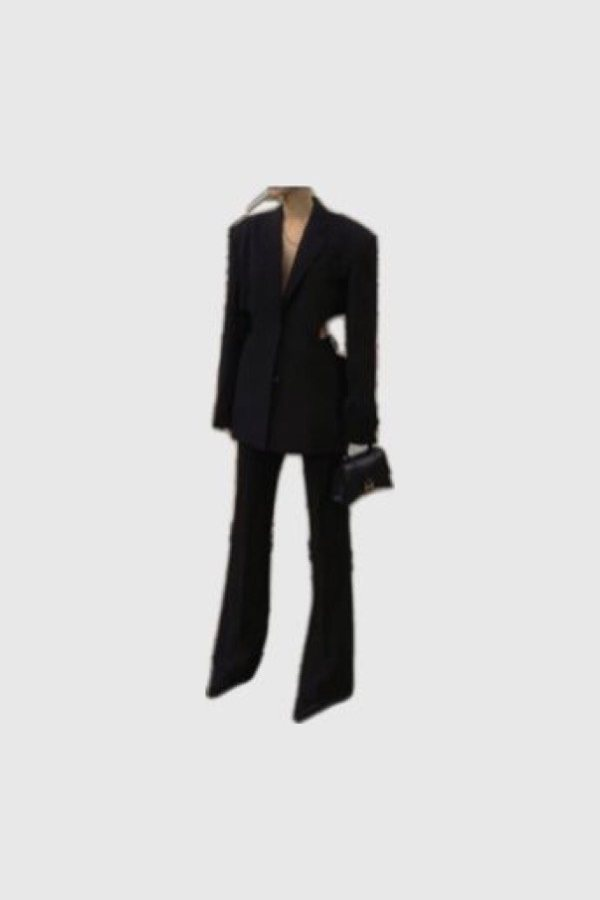
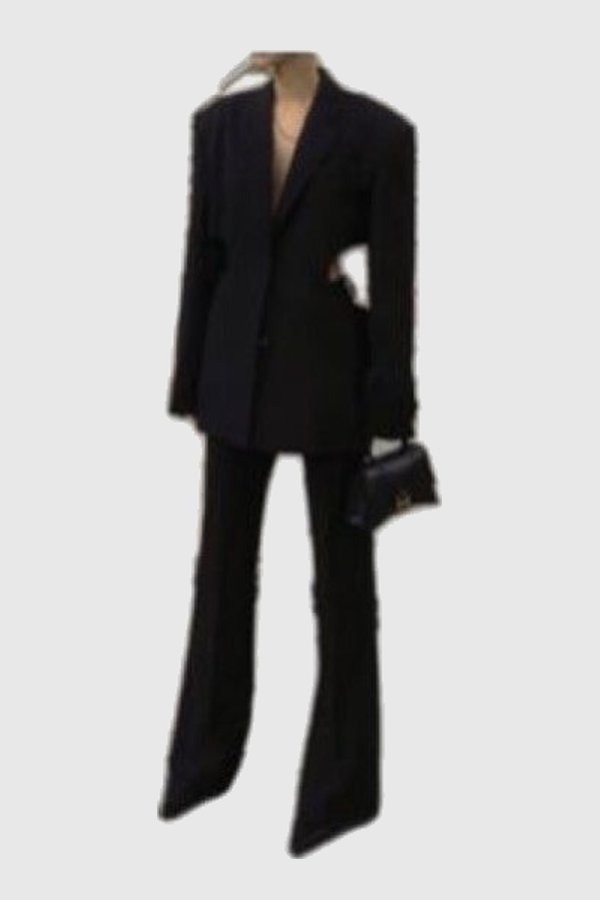
Dress code: one lined-up board, each figure tappable
Every look is now full-length head to toe, cut to a common scale and standing
on a shared baseline, butted together with no gap on one continuous backdrop.
It reads as a single lined-up photograph, but each figure is still its own
tile, so tapping a person opens that person.

Built as a zero-gap flex row rather than an image map with coordinates —
coordinates break the moment the image is scaled, and this reflows instead
(5 across, 4 under 700px, 3 under 480px). Partial rows centre, so the 11th
woman sits centred rather than stranded at the left.

Hover no longer lifts or scales a tile — either tears the seam between
neighbouring figures. The tapped figure brightens instead.

Exact matches, per instruction: her-3 (LNB Studio "Spinella"), her-4
(16Arlington "Minelli"), him-1 (Zara) and him-2 (Suitsupply) are the same
garments' own full-length product photography. The rest are McKenna's own
images, re-scaled but not substituted.

One exception worth knowing: the exact tuxedo in her board exists only as a
1080x1920 street photo cropped at the forehead, on concrete. No larger or
fuller copy exists, and it can't be cut out — segmentation takes the doorway
shadow with it. It's been replaced with a clean full-length black tuxedo so
the line-up holds together. Easy to swap back.

Cards carry ?v=3; filenames are unchanged so cache would otherwise serve the
old crops.

Cache: style.css v31.

Changed region(s): [[0.24, 0.0311, 0.75, 0.9644]]

diff --git a/details/index.html b/details/index.html
@@ -45,7 +45,7 @@
 <link rel="preconnect" href="https://fonts.gstatic.com" crossorigin />
 <link href="https://fonts.googleapis.com/css2?family=Cormorant+Garamond:ital,wght@0,300;0,400;0,500;0,600;1,300;1,400;1,500&family=Jost:wght@300;400;500&display=swap" rel="stylesheet" />
 
-<link rel="stylesheet" href="/assets/style.css?v=29" />
+<link rel="stylesheet" href="/assets/style.css?v=31" />
 
 <!-- No-JS fallback: reveal all content if scripts don't run. -->
 <noscript><style>
@@ -264,30 +264,30 @@
       <div class="lookbook__group">
         <h3 class="lookbook__label">For her</h3>
         <div class="lookbook__grid">
-        <figure class="tile look" tabindex="0" role="button" aria-label="Enlarge: A floor-length column gown"><img class="duo" src="/assets/look-her-1.jpg?v=2" width="600" height="900" alt="A floor-length column gown" loading="lazy" decoding="async" /></figure>
-        <figure class="tile look" tabindex="0" role="button" aria-label="Enlarge: A peplum mini with sheer tights"><img class="duo" src="/assets/look-her-2.jpg?v=2" width="600" height="900" alt="A peplum mini with sheer tights" loading="lazy" decoding="async" /></figure>
-        <figure class="tile look" tabindex="0" role="button" aria-label="Enlarge: An oversized blazer over a sheer maxi"><img class="duo" src="/assets/look-her-3.jpg?v=2" width="600" height="900" alt="An oversized blazer over a sheer maxi" loading="lazy" decoding="async" /></figure>
-        <figure class="tile look" tabindex="0" role="button" aria-label="Enlarge: A strapless midi with a feather hem"><img class="duo" src="/assets/look-her-4.jpg?v=2" width="600" height="900" alt="A strapless midi with a feather hem" loading="lazy" decoding="async" /></figure>
-        <figure class="tile look" tabindex="0" role="button" aria-label="Enlarge: A tuxedo suit — jacket and trousers"><img class="duo" src="/assets/look-her-5.jpg?v=2" width="600" height="900" alt="A tuxedo suit — jacket and trousers" loading="lazy" decoding="async" /></figure>
-        <figure class="tile look" tabindex="0" role="button" aria-label="Enlarge: A strapless gown with an oversized bow"><img class="duo" src="/assets/look-her-6.jpg?v=2" width="600" height="900" alt="A strapless gown with an oversized bow" loading="lazy" decoding="async" /></figure>
-        <figure class="tile look" tabindex="0" role="button" aria-label="Enlarge: A blazer dress with tall boots"><img class="duo" src="/assets/look-her-7.jpg?v=2" width="600" height="900" alt="A blazer dress with tall boots" loading="lazy" decoding="async" /></figure>
-        <figure class="tile look" tabindex="0" role="button" aria-label="Enlarge: An off-shoulder draped gown"><img class="duo" src="/assets/look-her-8.jpg?v=2" width="600" height="900" alt="An off-shoulder draped gown" loading="lazy" decoding="async" /></figure>
-        <figure class="tile look" tabindex="0" role="button" aria-label="Enlarge: A sharp blazer over sheer layers"><img class="duo" src="/assets/look-her-9.jpg?v=2" width="600" height="900" alt="A sharp blazer over sheer layers" loading="lazy" decoding="async" /></figure>
-        <figure class="tile look" tabindex="0" role="button" aria-label="Enlarge: A plunging gown with a thigh slit"><img class="duo" src="/assets/look-her-10.jpg?v=2" width="600" height="900" alt="A plunging gown with a thigh slit" loading="lazy" decoding="async" /></figure>
-        <figure class="tile look" tabindex="0" role="button" aria-label="Enlarge: An off-shoulder ruched mini"><img class="duo" src="/assets/look-her-11.jpg?v=2" width="600" height="900" alt="An off-shoulder ruched mini" loading="lazy" decoding="async" /></figure>
+        <figure class="tile look" tabindex="0" role="button" aria-label="Enlarge: A floor-length column gown"><img class="duo" src="/assets/look-her-1.jpg?v=3" width="600" height="900" alt="A floor-length column gown" loading="lazy" decoding="async" /></figure>
+        <figure class="tile look" tabindex="0" role="button" aria-label="Enlarge: A peplum mini with sheer tights"><img class="duo" src="/assets/look-her-2.jpg?v=3" width="600" height="900" alt="A peplum mini with sheer tights" loading="lazy" decoding="async" /></figure>
+        <figure class="tile look" tabindex="0" role="button" aria-label="Enlarge: An oversized blazer over a sheer maxi"><img class="duo" src="/assets/look-her-3.jpg?v=3" width="600" height="900" alt="An oversized blazer over a sheer maxi" loading="lazy" decoding="async" /></figure>
+        <figure class="tile look" tabindex="0" role="button" aria-label="Enlarge: A strapless midi with a feather hem"><img class="duo" src="/assets/look-her-4.jpg?v=3" width="600" height="900" alt="A strapless midi with a feather hem" loading="lazy" decoding="async" /></figure>
+        <figure class="tile look" tabindex="0" role="button" aria-label="Enlarge: A tuxedo suit — jacket and trousers"><img class="duo" src="/assets/look-her-5.jpg?v=3" width="600" height="900" alt="A tuxedo suit — jacket and trousers" loading="lazy" decoding="async" /></figure>
+        <figure class="tile look" tabindex="0" role="button" aria-label="Enlarge: A strapless gown with an oversized bow"><img class="duo" src="/assets/look-her-6.jpg?v=3" width="600" height="900" alt="A strapless gown with an oversized bow" loading="lazy" decoding="async" /></figure>
+        <figure class="tile look" tabindex="0" role="button" aria-label="Enlarge: A blazer dress with tall boots"><img class="duo" src="/assets/look-her-7.jpg?v=3" width="600" height="900" alt="A blazer dress with tall boots" loading="lazy" decoding="async" /></figure>
+        <figure class="tile look" tabindex="0" role="button" aria-label="Enlarge: An off-shoulder draped gown"><img class="duo" src="/assets/look-her-8.jpg?v=3" width="600" height="900" alt="An off-shoulder draped gown" loading="lazy" decoding="async" /></figure>
+        <figure class="tile look" tabindex="0" role="button" aria-label="Enlarge: A sharp blazer over sheer layers"><img class="duo" src="/assets/look-her-9.jpg?v=3" width="600" height="900" alt="A sharp blazer over sheer layers" loading="lazy" decoding="async" /></figure>
+        <figure class="tile look" tabindex="0" role="button" aria-label="Enlarge: A plunging gown with a thigh slit"><img class="duo" src="/assets/look-her-10.jpg?v=3" width="600" height="900" alt="A plunging gown with a thigh slit" loading="lazy" decoding="async" /></figure>
+        <figure class="tile look" tabindex="0" role="button" aria-label="Enlarge: An off-shoulder ruched mini"><img class="duo" src="/assets/look-her-11.jpg?v=3" width="600" height="900" alt="An off-shoulder ruched mini" loading="lazy" decoding="async" /></figure>
         </div>
       </div>
       <div class="lookbook__group">
         <h3 class="lookbook__label">For him</h3>
         <div class="lookbook__grid lookbook__grid--him">
-        <figure class="tile look" tabindex="0" role="button" aria-label="Enlarge: A black suit over a black tee"><img class="duo" src="/assets/look-him-1.jpg?v=2" width="600" height="900" alt="A black suit over a black tee" loading="lazy" decoding="async" /></figure>
-        <figure class="tile look" tabindex="0" role="button" aria-label="Enlarge: A black shirt with tailored trousers"><img class="duo" src="/assets/look-him-2.jpg?v=2" width="600" height="900" alt="A black shirt with tailored trousers" loading="lazy" decoding="async" /></figure>
-        <figure class="tile look" tabindex="0" role="button" aria-label="Enlarge: A slim black shirt and trousers"><img class="duo" src="/assets/look-him-3.jpg?v=2" width="600" height="900" alt="A slim black shirt and trousers" loading="lazy" decoding="async" /></figure>
-        <figure class="tile look" tabindex="0" role="button" aria-label="Enlarge: Black tie — a tuxedo with a white shirt"><img class="duo" src="/assets/look-him-4.jpg?v=2" width="600" height="900" alt="Black tie — a tuxedo with a white shirt" loading="lazy" decoding="async" /></figure>
+        <figure class="tile look" tabindex="0" role="button" aria-label="Enlarge: A black suit over a black tee"><img class="duo" src="/assets/look-him-1.jpg?v=3" width="600" height="900" alt="A black suit over a black tee" loading="lazy" decoding="async" /></figure>
+        <figure class="tile look" tabindex="0" role="button" aria-label="Enlarge: A black shirt with tailored trousers"><img class="duo" src="/assets/look-him-2.jpg?v=3" width="600" height="900" alt="A black shirt with tailored trousers" loading="lazy" decoding="async" /></figure>
+        <figure class="tile look" tabindex="0" role="button" aria-label="Enlarge: A slim black shirt and trousers"><img class="duo" src="/assets/look-him-3.jpg?v=3" width="600" height="900" alt="A slim black shirt and trousers" loading="lazy" decoding="async" /></figure>
+        <figure class="tile look" tabindex="0" role="button" aria-label="Enlarge: Black tie — a tuxedo with a white shirt"><img class="duo" src="/assets/look-him-4.jpg?v=3" width="600" height="900" alt="Black tie — a tuxedo with a white shirt" loading="lazy" decoding="async" /></figure>
         </div>
       </div>
     </div>
-    <p class="lookbook__hint reveal d3">Tap any look to see it larger.</p>
+    <p class="lookbook__hint reveal d3">Tap anyone in the line-up to see them larger.</p>
   </div>
 </section>
 

diff --git a/assets/style.css b/assets/style.css
@@ -1011,30 +1011,40 @@ body.entered .hero__date { opacity: 1; transform: translateY(0); }
   letter-spacing: 0.28em; font-size: 0.6rem; text-align: center;
   color: color-mix(in oklch, var(--ivory) 82%, transparent);
 }
+/* gap:0 and a shared backdrop — the figures are cut to a common scale and
+   baseline, so butted together they read as ONE lined-up photograph while each
+   remains its own tappable tile. */
+/* flex, not grid: an 11-figure line-up leaves a partial last row, and flex can
+   centre it so it reads as deliberate rather than ragged. */
 .lookbook__grid {
-  display: grid; gap: clamp(0.4rem, 1.2vw, 0.7rem); min-width: 0;
-  grid-template-columns: repeat(auto-fill, minmax(clamp(5.5rem, 11vw, 7.5rem), 1fr));
+  display: flex; flex-wrap: wrap; justify-content: center; gap: 0; min-width: 0;
+  background: #e8e8e8; border: 1px solid rgba(241, 235, 223, 0.14);
 }
-/* Fixed counts on small screens — auto-fill packs far too many at phone widths. */
-@media (max-width: 700px) { .lookbook__grid { grid-template-columns: repeat(4, minmax(0, 1fr)); } }
-@media (max-width: 480px) { .lookbook__grid { grid-template-columns: repeat(3, minmax(0, 1fr)); } }
+.lookbook__grid > .look { flex: 0 0 20%; max-width: 20%; }
+@media (max-width: 700px) { .lookbook__grid > .look { flex-basis: 25%; max-width: 25%; } }
+@media (max-width: 480px) { .lookbook__grid > .look { flex-basis: 33.3333%; max-width: 33.3333%; } }
+
 /* Four looks shouldn't stretch to the full width of eleven. */
 .lookbook__grid--him { max-width: 32rem; margin: 0 auto; }
+.lookbook__grid--him > .look { flex-basis: 25%; max-width: 25%; }
 .lookbook .look { margin: 0; padding: 0; background: none; border: 0; cursor: zoom-in; }
 /* Has to out-specify the gallery's `.tile .duo { height: auto }` (two classes) —
    a one-class selector silently loses and the cards render at natural height. */
 .lookbook .tile .duo {
   display: block; width: 100%; aspect-ratio: 2 / 3; height: auto;
   object-fit: cover; object-position: center;
-  background: #e8e8e8; border: 1px solid rgba(241, 235, 223, 0.12);
-  transition: transform 0.5s cubic-bezier(0.2, 0.7, 0.2, 1), border-color 0.4s ease, opacity 1s ease;
+  background: #e8e8e8; border: 0;
+  transition: opacity 1s ease, filter 0.35s ease;
 }
+/* No lift or scale — either would tear the seam between neighbouring figures.
+   The tapped figure brightens against its neighbours instead. */
+.lookbook .tile:hover .duo.loaded { filter: brightness(1.06); }
+.lookbook .tile:not(:hover) .duo.loaded { filter: none; }
 /* The gallery scales its tiles; these lift — a pale card growing inside a dark
    frame reads as a glitch. */
-.lookbook .tile:hover .duo.loaded,
-.lookbook .tile:focus-visible .duo.loaded { transform: translateY(-3px); border-color: rgba(241, 235, 223, 0.45); }
+
 .lookbook .look:focus-visible { outline: none; }
-.lookbook .look:focus-visible .duo { outline: 2px solid var(--accent); outline-offset: 2px; }
+.lookbook .look:focus-visible .duo { outline: 2px solid var(--accent); outline-offset: -2px; }
 .lookbook__hint {
   text-align: center; margin: 1.8rem 0 0; font-family: var(--font-sans);
   font-size: 0.66rem; letter-spacing: 0.18em; text-transform: uppercase;
@@ -1042,5 +1052,5 @@ body.entered .hero__date { opacity: 1; transform: translateY(0); }
 }
 @media (prefers-reduced-motion: reduce) {
   .lookbook .tile .duo { transition: none; }
-  .lookbook .tile:hover .duo.loaded { transform: none; }
+  .lookbook .tile:hover .duo.loaded { filter: none; }
 }

diff --git a/gallery/index.html b/gallery/index.html
@@ -45,7 +45,7 @@
 <link rel="preconnect" href="https://fonts.gstatic.com" crossorigin />
 <link href="https://fonts.googleapis.com/css2?family=Cormorant+Garamond:ital,wght@0,300;0,400;0,500;0,600;1,300;1,400;1,500&family=Jost:wght@300;400;500&display=swap" rel="stylesheet" />
 
-<link rel="stylesheet" href="/assets/style.css?v=29" />
+<link rel="stylesheet" href="/assets/style.css?v=31" />
 
 <!-- No-JS fallback: reveal all content if scripts don't run. -->
 <noscript><style>

diff --git a/admin/index.html b/admin/index.html
@@ -24,7 +24,7 @@
 <link rel="preconnect" href="https://fonts.gstatic.com" crossorigin />
 <link href="https://fonts.googleapis.com/css2?family=Cormorant+Garamond:ital,wght@0,300;0,400;0,500;0,600;1,300;1,400;1,500&family=Jost:wght@300;400;500&display=swap" rel="stylesheet" />
 
-<link rel="stylesheet" href="/assets/style.css?v=29" />
+<link rel="stylesheet" href="/assets/style.css?v=31" />
 </head>
 
 <body>

diff --git a/index.html b/index.html
@@ -55,7 +55,7 @@
       imagesrcset="assets/hero-m.jpg 932w, assets/hero.jpg 1597w"
       imagesizes="100vw" fetchpriority="high" />
 
-<link rel="stylesheet" href="assets/style.css?v=29" />
+<link rel="stylesheet" href="assets/style.css?v=31" />
 
 <!-- No-JS fallback: if scripts don't run, lift the opening film, unlock scroll,
      and reveal all content so the site is never trapped behind the gate. -->
